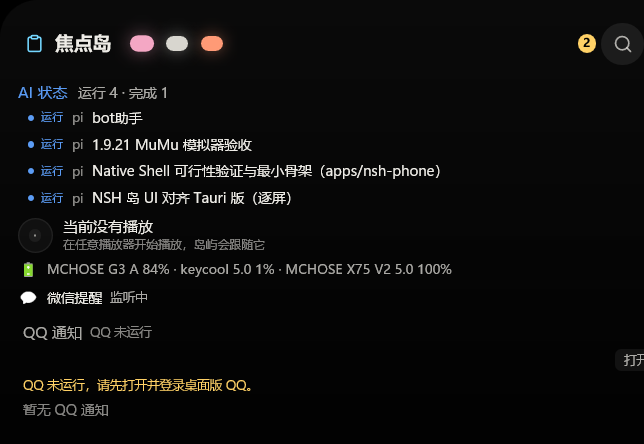
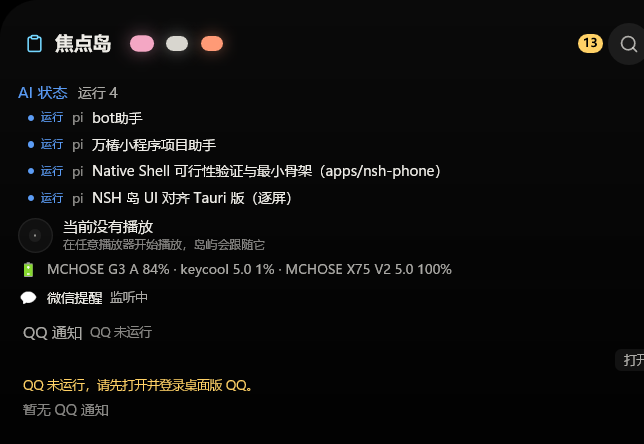
style(nsh): keep island rows inside the window and record the measured overflow

Changed region(s): [[0.1242, 0.2928, 0.4037, 0.3514], [0.9006, 0.0586, 0.9938, 0.1171], [0.1863, 0.1757, 0.2484, 0.2342]]

diff --git a/nsh/src/lib.rs b/nsh/src/lib.rs
@@ -558,11 +558,11 @@ fn collapsed_island(
     };
     view()
         .relative()
-        .w_full()
+        .w(px(theme::COLLAPSED_WIDTH))
         .h(px(theme::COLLAPSED_HEIGHT))
+        .min_w(px(0.0))
         .flex_row()
         .items_center()
-        .gap(px(theme::SPACE_MD))
         .rounded(px(theme::COLLAPSED_RADIUS))
         .overflow_hidden()
         .bg(move || palette(dark.get()).bg)
@@ -597,6 +597,7 @@ fn collapsed_island(
             move || ai.enabled.get() && ai.snapshot.get().state().is_some(),
             move || {
                 text(move || ai_inline_label(ai))
+                    .ml(px(theme::SPACE_MD))
                     .flex_shrink(0.0)
                     .text_size(px(theme::HINT_SIZE))
                     .font_weight(FontWeight::MEDIUM)
@@ -610,12 +611,14 @@ fn collapsed_island(
                 theme::ISLAND_BG,
                 theme::WARNING,
             )
+            .ml(px(theme::SPACE_SM))
             .on_press(move || open_cindy(ai))
         }))
         .child(when(
             move || shelf_show_count.get() && !shelf.items.get().is_empty(),
             move || {
                 view()
+                    .ml(px(theme::SPACE_SM))
                     .h(px(22.0))
                     .px(px(7.0))
                     .flex_shrink(0.0)
@@ -635,6 +638,7 @@ fn collapsed_island(
         ))
         .child(
             text(move || t!("island.count", count = items.get().len()))
+                .ml(px(theme::SPACE_MD))
                 .flex_shrink(0.0)
                 .text_size(px(theme::LABEL_SIZE))
                 .text_color(move || palette(dark.get()).faint),
@@ -688,8 +692,8 @@ fn expanded_island(
     qq_enabled: Signal<bool>,
 ) -> impl IntoElement {
     view()
-        .w_full()
-        .h_full()
+        .w(px(theme::EXPANDED_WIDTH))
+        .h(px(theme::EXPANDED_HEIGHT))
         .min_w(px(0.0))
         .flex_col()
         .rounded(px(theme::EXPANDED_RADIUS))
@@ -878,6 +882,7 @@ fn expanded_header(
 fn ai_panel(ai: AiState, dark: Signal<bool>) -> impl IntoElement {
     view()
         .flex_col()
+        .w_full()
         .gap(px(3.0))
         .px(px(14.0))
         .pb(px(6.0))
@@ -1022,6 +1027,7 @@ fn open_cindy(ai: AiState) {
 fn battery_panel(batteries: Signal<Vec<PeripheralBatteryDevice>>, dark: Signal<bool>   ) -> impl IntoElement {
     view()
         .flex_row()
+        .w_full()
         .items_center()
         .gap(px(6.0))
         .px(px(14.0))
@@ -1055,6 +1061,7 @@ fn wechat_panel(
 ) -> impl IntoElement {
     view()
         .flex_row()
+        .w_full()
         .items_center()
         .gap(px(6.0))
         .px(px(14.0))
@@ -1165,6 +1172,7 @@ fn qq_toggle_row(state: SettingsState) -> impl IntoElement {
 fn media_panel(media_state: Signal<Option<MediaState>>, dark: Signal<bool>   ) -> impl IntoElement {
     view()
         .flex_col()
+        .w_full()
         .gap(px(3.0))
         .px(px(14.0))
         .pb(px(5.0))
@@ -1413,6 +1421,7 @@ fn media_progress(
 fn media_idle(media_state: Signal<Option<MediaState>>, dark: Signal<bool>) -> impl IntoElement {
     view()
         .flex_row()
+        .w_full()
         .items_center()
         .gap(px(8.0))
         .px(px(14.0))

diff --git a/nsh/src/ui/theme.rs b/nsh/src/ui/theme.rs
@@ -13,6 +13,12 @@ pub const FONT_UI: &str
 // --- Geometry -----------------------------------------------------------------------
 
 /// The collapsed bar's height (`.island__collapsed`, `IslandShell.css`).
+/// The island's design widths, matching the host's window sizes. The surface is
+/// always this many logical pixels, so a fixed size keeps rows from being
+/// widened by their content.
+pub const COLLAPSED_WIDTH: f32 = 320.0;
+pub const EXPANDED_WIDTH: f32 = 620.0;
+pub const EXPANDED_HEIGHT: f32 = 420.0;
 pub const COLLAPSED_HEIGHT: f32 = 38.0;
 /// The collapsed capsule's corner radius (`.island--collapsed`).
 pub const COLLAPSED_RADIUS: f32 = 19.0;

diff --git a/nsh/src/lyrics_ui.rs b/nsh/src/lyrics_ui.rs
@@ -21,6 +21,7 @@ use crate::lyrics::{
 };
 use crate::media::MediaState;
 use crate::palette;
+use crate::ui::theme;
 
 #[derive(Clone, Copy)]
 pub struct LyricsState {
@@ -202,6 +203,8 @@ pub fn collapsed(lyrics: LyricsState, media: Signal<Option<MediaState>>, dark: S
     })
     .truncate()
     .flex_1()
+    .min_w(px(0.0))
+    .ml(px(theme::SPACE_MD))
     .text_size(px(13.0))
     .font_weight(FontWeight::MEDIUM)
     .text_color(move || palette(dark.get()).fg)
